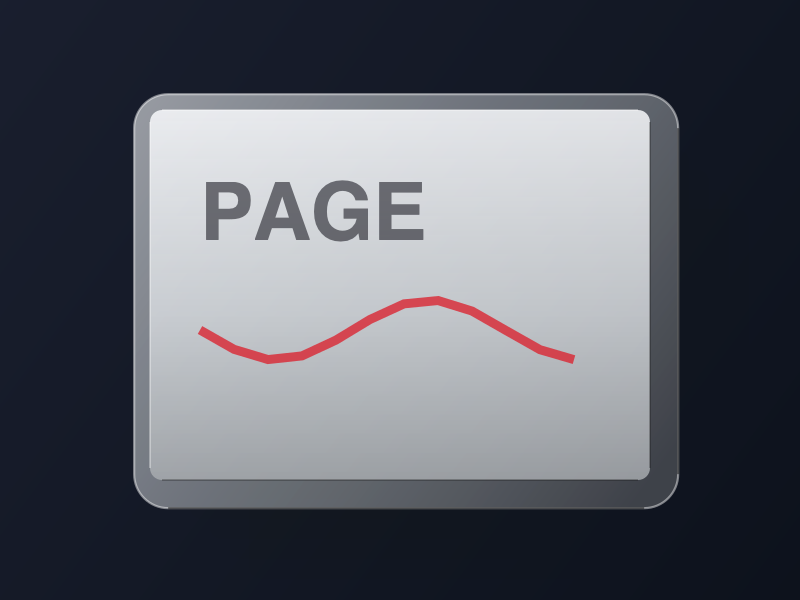
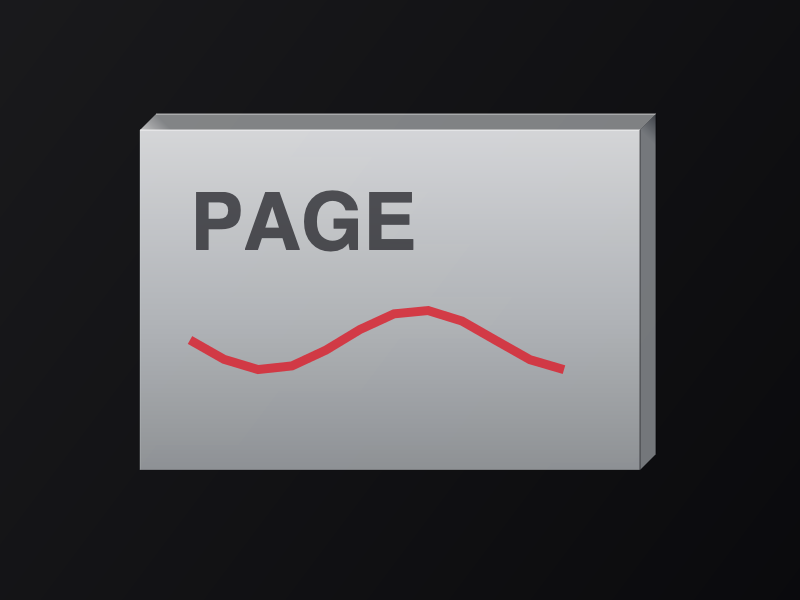
feat(macos): 时光隧道玻璃改直角侧视图——上/右侧挤出 3.2% 厚度, 中性明度, 前后片更易区分

Changed region(s): [[0.1562, 0.15, 0.875, 0.87], [0.2188, 0.3, 0.5312, 0.42], [0.2188, 0.48, 0.7188, 0.63]]

diff --git a/src/macos/parts/run.m b/src/macos/parts/run.m
@@ -623,8 +623,8 @@ static double s_tun_dur = 0.38; // 短促: 隧道动效在感知内"一闪而过
 // GLASPEN2_FLIP_K 可覆盖(0.05-3.0)。
 static double s_tun_k = 0.45;
 // 玻璃厚度(相对卡片宽度的比例)。可调: GLASPEN2_FLIP_THICK。
-// 2.8% 是"能一眼分出前后几片玻璃"的默认值; 再薄就退回叠纸片。
-static double s_tun_thick = 0.028;
+// 3.2% 是直角侧视图下"能一眼分出前后几片玻璃"的默认值; 再薄就退回叠纸片。
+static double s_tun_thick = 0.032;
 // 玻璃面的基准不透明度。真实玻璃需要"面"来遮挡后页; 旧值 0.08 只有
 // 一层灰, 每页的空白都完全透明, 所有笔迹叠在一起(观感发假的主因)。
 // 0.84 是磨砂玻璃: 近页基本挡住后页, 后页只从边缘/模糊里透出一点。
@@ -669,28 +669,9 @@ static void tunnel_free_cards(void) {
 // s = 1/(1+k·zc) 同时决定尺寸与位置 —— 卡片中心始终在屏轴上, 越深
 // 越小并向中心收拢;翻页 = 页列沿轴整体平移一格, 前端卡片飞越镜头
 // 渐隐, 深端新卡浮现 —— 方向感由"哪端进哪端出"自然产生。
-static void tunnel_rounded_rect(cairo_t *cr, double x, double y, double w,
-                                double h, double r) {
-  if (r > w / 2.0)
-    r = w / 2.0;
-  if (r > h / 2.0)
-    r = h / 2.0;
-  cairo_new_sub_path(cr);
-  cairo_arc(cr, x + w - r, y + r, r, -M_PI / 2.0, 0);
-  cairo_arc(cr, x + w - r, y + h - r, r, 0, M_PI / 2.0);
-  cairo_arc(cr, x + r, y + h - r, r, M_PI / 2.0, M_PI);
-  cairo_arc(cr, x + r, y + r, r, M_PI, 3.0 * M_PI / 2.0);
-  cairo_close_path(cr);
-}
-
-// 卡片在画面里的位置与缩放。返回 NO = 飞出画面外。
-// zc = 页距 − 相机位置(负 = 已越过镜头, 正 = 在隧道里)。
-//
-// 真透视: s(z) = 1/(1+K·z)。K 可调(GLASPEN2_FLIP_K), 它同时决定
-// 尺寸衰减和层间距 —— 这才是"近大远小", 而不是每层固定乘一个比例
-// (等比缩小的观感是叠框/缩放, 不是纵深)。
-// 消失点略高于屏幕中心, 卡片随深度轻微上移/右移: 层与层露出可读的
-// 边缘, 同时不会把深处页推得掉出屏幕。
+// 直角玻璃: 前脸是矩形, 只有**上侧和右侧**挤出厚度, 形成侧视图。
+// 旧版圆角+四边厚板像一块平板; 侧视图能让每片玻璃的方向和前后关系
+// 一眼可读(上/右侧面 = 你正看着玻璃的截面)。
 static BOOL tunnel_place(double zc, double *out_cx, double *out_cy,
                          double *out_w, double *out_h, double *out_alpha) {
   if (zc < -TUNNEL_SPAN || zc > TUNNEL_FRONT)
@@ -741,8 +722,8 @@ static void tunnel_draw_card(cairo_t *cr, int slot, double cx, double cy,
 
   double card_x = cx - w / 2.0, card_y = cy - h / 2.0;
 
-  // 落定帧(zc≈0): 只画真实页快照, 不叠玻璃面/侧面/投影。否则落定卡的
-  // 空白区域仍会透出后面几页的笔迹, commit 换真实页时整屏"变干净"。
+  // 落定帧(zc≈0): 只画真实页快照, 不叠侧面/投影。否则落定卡的空白
+  // 区域仍会透出后面几页的笔迹, commit 换真实页时整屏"变干净"。
   if (fabs(zc) < 0.005) {
     cairo_save(cr);
     cairo_rectangle(cr, 0, 0, (double)s_tun_surf_w, (double)s_tun_surf_h);
@@ -755,64 +736,75 @@ static void tunnel_draw_card(cairo_t *cr, int slot, double cx, double cy,
     return;
   }
 
-  // 玻璃材质随页离开落定位渐入, 避免第 0 帧从"真实页"突变成"灰玻璃"。
   double glass = fabs(zc) / 0.10;
   if (glass > 1.0)
     glass = 1.0;
 
-  double r = MAX(8.0, w * 0.018);   // 圆角
-  // **玻璃厚度** = 前脸四周露出的截面宽度。随卡片尺寸等比, 近处厚、
-  // 远处薄(自然透视); 旧值 0.0045 在 4K 屏上只有十几像素, 看起来像
-  // 一张纸。1.6% 宽 + 最小 4px 让倒角/侧面真正可读。
+  // 直角玻璃厚度 = 上/右侧面挤出的宽度。3.2% 卡宽 + 最小 4px:
+  // 4K 屏上约 110px, 足以在透视里区分前后几片玻璃。
   double T = MAX(4.0, w * s_tun_thick);
-  // 阴影偏移与厚度解耦: 厚度加大时不能把阴影也拉成一大片黑雾。
+  // 阴影偏移与厚度解耦, 避免厚度加大时阴影变成黑雾。
   double soff = MAX(3.0, w * 0.008);
+
   double zpos = zc > 0.0 ? zc : 0.0;
   if (zpos > 4.0)
     zpos = 4.0;
   double pane = (s_tun_pane_a + 0.02 * zpos) * glass;
-  // 从镜头前方飞入的页: 面与内容一起淡入, 否则会在内容还只有 17% 时
-  // 先出现一块 84% 不透明的"空白玻璃板"盖住当前页。
   if (zc < 0.0)
     pane *= alpha;
   if (pane > 0.94)
     pane = 0.94;
 
-  // 软阴影: 多层圆角矩形叠加(无模糊 API, 但比两条硬边自然得多)。
+  // 软阴影(多层矩形, 直角)。
   for (int i = 5; i >= 1; i--) {
     double off = i * soff;
     cairo_set_source_rgba(cr, 0, 0, 0, 0.016 * alpha * glass);
-    tunnel_rounded_rect(cr, card_x + off, card_y + off, w, h, r);
+    cairo_rectangle(cr, card_x + off, card_y + off, w, h);
     cairo_fill(cr);
   }
 
-  // ── 板体: 比前脸四周各外扩 T 的厚玻璃轮廓 ──
-  // 用一块完整的圆角"厚板"当底色, 前脸盖在上面, 露出来的一圈就是
-  // 玻璃厚度。比原先拆成右/上两块平行四边形更像一整块玻璃。
-  double ox = T * 0.28, oy = T * 0.28; // 右下略厚(受光在左上)
-  double sx = card_x - T + ox, sy = card_y - T + oy;
-  double sw = w + 2.0 * T, sh = h + 2.0 * T, sr = r + T;
-  cairo_save(cr);
-  cairo_pattern_t *slab = cairo_pattern_create_linear(
-      card_x, card_y, card_x + w, card_y + h);
-  // 中性玻璃: 几乎不加蓝, 只用明度差表达厚度(左上受光/右下背光)。
-  cairo_pattern_add_color_stop_rgba(slab, 0.00, 0.94, 0.95, 0.96, 0.58 * alpha * glass);
-  cairo_pattern_add_color_stop_rgba(slab, 0.45, 0.72, 0.74, 0.76, 0.54 * alpha * glass);
-  cairo_pattern_add_color_stop_rgba(slab, 1.00, 0.34, 0.35, 0.37, 0.66 * alpha * glass);
-  cairo_set_source(cr, slab);
-  tunnel_rounded_rect(cr, sx, sy, sw, sh, sr);
-  cairo_fill(cr);
-  cairo_pattern_destroy(slab);
-  cairo_restore(cr);
+  // ── 上侧面: 从前脸顶边向右上挤出 T ──
+  {
+    cairo_pattern_t *top = cairo_pattern_create_linear(
+        card_x, card_y, card_x + T, card_y - T);
+    cairo_pattern_add_color_stop_rgba(top, 0.0, 1.00, 1.00, 1.00,
+                                      0.74 * alpha * glass);
+    cairo_pattern_add_color_stop_rgba(top, 1.0, 0.90, 0.91, 0.92,
+                                      0.52 * alpha * glass);
+    cairo_set_source(cr, top);
+    cairo_move_to(cr, card_x, card_y);
+    cairo_line_to(cr, card_x + T, card_y - T);
+    cairo_line_to(cr, card_x + w + T, card_y - T);
+    cairo_line_to(cr, card_x + w, card_y);
+    cairo_close_path(cr);
+    cairo_fill(cr);
+    cairo_pattern_destroy(top);
+  }
 
-  // ── 前脸: 磨砂面 + 内容 + 斜向高光, 裁进圆角 ──
+  // ── 右侧面: 从前脸右边向右上挤出 T ──
+  {
+    cairo_pattern_t *right = cairo_pattern_create_linear(
+        card_x + w, card_y, card_x + w + T, card_y - T);
+    cairo_pattern_add_color_stop_rgba(right, 0.0, 0.70, 0.72, 0.74,
+                                      0.62 * alpha * glass);
+    cairo_pattern_add_color_stop_rgba(right, 1.0, 0.28, 0.30, 0.33,
+                                      0.74 * alpha * glass);
+    cairo_set_source(cr, right);
+    cairo_move_to(cr, card_x + w, card_y);
+    cairo_line_to(cr, card_x + w + T, card_y - T);
+    cairo_line_to(cr, card_x + w + T, card_y + h - T);
+    cairo_line_to(cr, card_x + w, card_y + h);
+    cairo_close_path(cr);
+    cairo_fill(cr);
+    cairo_pattern_destroy(right);
+  }
+
+  // ── 前脸: 矩形磨砂面 + 内容 + 斜向高光 ──
   cairo_save(cr);
-  tunnel_rounded_rect(cr, card_x, card_y, w, h, r);
+  cairo_rectangle(cr, card_x, card_y, w, h);
   cairo_clip(cr);
   cairo_pattern_t *fg = cairo_pattern_create_linear(card_x, card_y, card_x,
                                                     card_y + h);
-  // 只让颜色渐变, 不透明度保持接近 pane —— 否则中间那一档会把遮挡
-  // 降回 50%, 后面几页的笔迹又透出来。
   cairo_pattern_add_color_stop_rgba(fg, 0.0, 0.985, 0.99, 1.0, pane * 0.99);
   cairo_pattern_add_color_stop_rgba(fg, 0.55, 0.86, 0.875, 0.89, pane * 0.94);
   cairo_pattern_add_color_stop_rgba(fg, 1.0, 0.66, 0.675, 0.69, pane * 0.98);
@@ -820,7 +812,6 @@ static void tunnel_draw_card(cairo_t *cr, int slot, double cx, double cy,
   cairo_paint(cr);
   cairo_pattern_destroy(fg);
 
-  // 页面内容(笔迹快照)。快照本身透明底, 磨砂面在后面提供遮挡。
   cairo_save(cr);
   cairo_translate(cr, card_x, card_y);
   cairo_scale(cr, w / (double)nw, h / (double)nh);
@@ -828,7 +819,6 @@ static void tunnel_draw_card(cairo_t *cr, int slot, double cx, double cy,
   cairo_paint_with_alpha(cr, alpha);
   cairo_restore(cr);
 
-  // 斜向镜面扫光: 玻璃感的关键, 但必须很淡。
   cairo_pattern_t *sheen = cairo_pattern_create_linear(
       card_x, card_y, card_x + w, card_y + h * 0.75);
   cairo_pattern_add_color_stop_rgba(sheen, 0.0, 1, 1, 1, 0.10 * alpha * glass);
@@ -839,32 +829,37 @@ static void tunnel_draw_card(cairo_t *cr, int slot, double cx, double cy,
   cairo_pattern_destroy(sheen);
   cairo_restore(cr);
 
-  // ── 厚度边缘: 外缘亮线 + 右下暗线, 前脸内缘再压一圈 ──
+  // ── 侧视图棱线: 背侧顶/右暗边, 前脸顶/右亮边 ──
   cairo_save(cr);
-  cairo_set_line_width(cr, MAX(1.0, T * 0.10));
-  cairo_set_source_rgba(cr, 1.0, 1.0, 1.0, 0.46 * alpha * glass);
-  tunnel_rounded_rect(cr, sx, sy, sw, sh, sr);
+  cairo_set_line_width(cr, MAX(1.0, T * 0.08));
+  // 背侧外缘(远离观察者): 左上亮、右下暗
+  cairo_set_source_rgba(cr, 1.0, 1.0, 1.0, 0.42 * alpha * glass);
+  cairo_move_to(cr, card_x + T, card_y - T);
+  cairo_line_to(cr, card_x + w + T, card_y - T);
   cairo_stroke(cr);
-  cairo_set_source_rgba(cr, 0.035, 0.037, 0.040, 0.48 * alpha * glass);
-  cairo_move_to(cr, sx + sr, sy + sh);
-  cairo_line_to(cr, sx + sw - sr, sy + sh);
-  cairo_move_to(cr, sx + sw, sy + sr);
-  cairo_line_to(cr, sx + sw, sy + sh - sr);
+  cairo_set_source_rgba(cr, 0.03, 0.03, 0.035, 0.48 * alpha * glass);
+  cairo_move_to(cr, card_x + w + T, card_y - T);
+  cairo_line_to(cr, card_x + w + T, card_y + h - T);
   cairo_stroke(cr);
 
-  // 前脸内缘: 左上高光 + 右下内阴影, 把"面"和"厚度"分开。
-  cairo_set_line_width(cr, MAX(1.0, T * 0.08));
-  cairo_set_source_rgba(cr, 1, 1, 1, 0.38 * alpha * glass);
-  cairo_move_to(cr, card_x + r, card_y);
-  cairo_line_to(cr, card_x + w - r, card_y);
-  cairo_move_to(cr, card_x, card_y + r);
-  cairo_line_to(cr, card_x, card_y + h - r);
+  // 前脸与侧面的交界棱: 顶边亮、右边暗, 让截面立起来
+  cairo_set_source_rgba(cr, 1.0, 1.0, 1.0, 0.50 * alpha * glass);
+  cairo_move_to(cr, card_x, card_y);
+  cairo_line_to(cr, card_x + w, card_y);
   cairo_stroke(cr);
-  cairo_set_source_rgba(cr, 0.06, 0.062, 0.065, 0.32 * alpha * glass);
-  cairo_move_to(cr, card_x + r, card_y + h);
-  cairo_line_to(cr, card_x + w - r, card_y + h);
-  cairo_move_to(cr, card_x + w, card_y + r);
-  cairo_line_to(cr, card_x + w, card_y + h - r);
+  cairo_set_source_rgba(cr, 0.04, 0.04, 0.045, 0.38 * alpha * glass);
+  cairo_move_to(cr, card_x + w, card_y);
+  cairo_line_to(cr, card_x + w, card_y + h);
+  cairo_stroke(cr);
+
+  // 前脸左/下边缘: 极淡收边, 直角玻璃不靠圆角找轮廓
+  cairo_set_source_rgba(cr, 0.9, 0.92, 0.94, 0.18 * alpha * glass);
+  cairo_move_to(cr, card_x, card_y);
+  cairo_line_to(cr, card_x, card_y + h);
+  cairo_stroke(cr);
+  cairo_set_source_rgba(cr, 0.05, 0.05, 0.055, 0.20 * alpha * glass);
+  cairo_move_to(cr, card_x, card_y + h);
+  cairo_line_to(cr, card_x + w, card_y + h);
   cairo_stroke(cr);
   cairo_restore(cr);
 }

diff --git a/CHANGELOG.md b/CHANGELOG.md
@@ -36,9 +36,9 @@
   模糊; 圆角、侧面/面渐变、Fresnel 高光、软阴影、深色纵深; 落定帧
   精确满屏, 目标页从 0 淡入。旧实现是 3-4 张同轴 92% 缩放的透明片,
   所有页笔迹叠在一起, 起止还会缩一下/跳一下。
-- **玻璃更厚、更纯净**: 厚度从 0.45% 提到 2.8% 卡宽, 改成完整厚板
-  轮廓(四边都有截面、右下更厚), 去掉蓝色滤镜改用中性明度渐变;
-  外缘高光/右下暗边/前脸内缘阴影让前后几片玻璃一眼可分。
+- **直角玻璃 + 侧视图厚度**: 去掉圆角, 只有上侧/右侧挤出 3.2% 卡宽
+  (厚度从 0.45% 提到 3.2%), 看起来像一块有截面的厚玻璃板; 去掉蓝色
+  滤镜改用中性明度渐变, 背侧棱线/前脸交界线让前后几片玻璃一眼可分。
   `GLASPEN2_FLIP_THICK` 可调(0.002-0.10)。
 - **删除死文件** `src/macos/parts/head.m`(从未被 include); ObjC 编译加
   `-Wall`。

diff --git a/docs/flip-effect/README.md b/docs/flip-effect/README.md
@@ -37,8 +37,9 @@
 
 ## 厚度/纯净度（`thickness.png`，单卡示意）
 
-- 厚度 2.8% 卡宽：完整厚板轮廓，右下更厚，四边都有截面；
-- 去掉蓝色滤镜：中性明度渐变（左上受光、右下背光）；
-- 外缘高光 + 右下暗边 + 前脸内缘阴影，用来在透视里区分前后玻璃片；
+- **直角玻璃**：前脸矩形，无圆角；
+- **侧视图厚度**：只有上侧和右侧挤出 3.2% 卡宽，形成清晰的玻璃截面；
+- 去掉蓝色滤镜：中性明度渐变（顶部受光、右侧背光）；
+- 背侧顶/右棱线 + 前脸顶/右交界线，用来在透视里区分前后玻璃片；
 - `GLASPEN2_FLIP_THICK` 调厚度（0.002–0.10），
   `GLASPEN2_FLIP_GLASS` 调面不透明度（0.70 更通透，0.90 更遮挡）。
